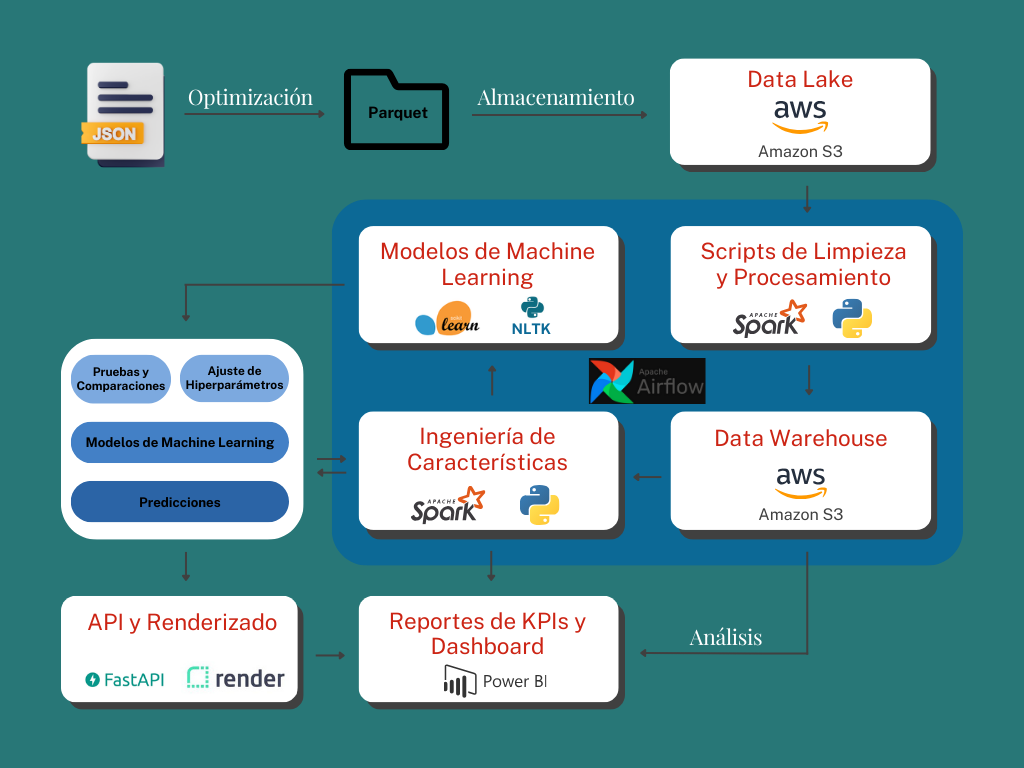
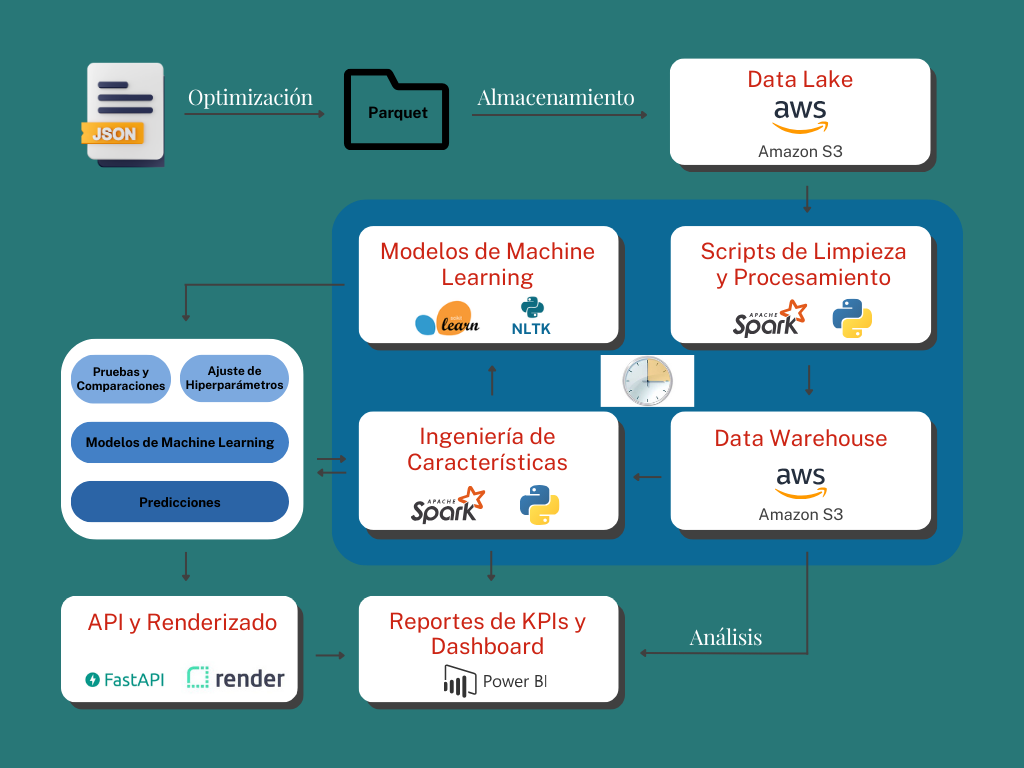
commit

Changed region(s): [[0.5625, 0.4375, 0.6875, 0.5312]]

diff --git a/README.md b/README.md
@@ -80,21 +80,25 @@ Datos de Web Scraping (Wikipedia)
 <h2>Stack tecnológico</h2>
 
 [![stack-tecnologico.jpg](https://i.postimg.cc/ryRG7jyq/stack-tecnologico.jpg)](https://postimg.cc/5j1FCwFr)
+<br><br>
 Git: Sistema de control de versiones distribuido, para el seguimiento de cambios en el código fuente<br>
 Github: Alojamiento de nuestro repositorio<br>
 Visual Studio Code: Software para trabajar de forma local en el proyecto<br>
-Google Drive: Servicio de Google para alma de forma provisoria nuestros archivos<br>
+Google Drive: Servicio de Google para almacenar de forma diversos tipos de archivos<br>
 AWS: Plataforma de computación en la nube que ofrece una amplia gama de servicios de infraestructura y aplicaciones en la nube<br>
-Airflow: Plataforma para automatización de flujos de trabajo<br>
+Amazon s3: Servicio de almacenamiento escalable y seguro de objetos en la nube de Amazon Web Services (AWS)<br>
+Boto3: Biblioteca de Python que permite interactuar con servicios de AWS (Amazon Web Services) de manera programática<br>
+Programador de Tareas: Aplicación para automatización flujos de trabajo de Windows<br>
 Python: Lenguaje de programación usado para ciencia de datos<br>
 Pandas: Librería escrita para el lenguaje Python para la manipulación y el análisis de datos<br>
 Spark: Marco de procesamiento de datos en clúster de grandes volumenes de datos<br>
 PySpark: Interfaz de programación en Python para Apache Spark<br>
 Koalas: Librería que combina la simplicidad de Pandas con el poder de Spark<br>
+Beautiful Soup: Biblioteca de Python para analizar y extraer información de documentos HTML y XML de manera sencilla<br>
 Matplotlib: Librería en Python para crear visualizaciones de nuestros datos<br>
 Seaborn: Librería de visualización de datos de Python basada en matplotlib<br>
-Scikit-learn: Librería de aprendizaje automático de código abierto para el lenguaje de programación Python<br>
-TensorFlow: Biblioteca de aprendizaje automático y redes neuronales<br>
+PySpark.ML: Librería de aprendizaje automático de alto rendimiento para PySpark<br>
+Alternating Least Squarze: Método de factorización matricial para recomendaciones de filtrado colaborativo<br>
 NLTK: Librería para el procesamiento del lenguaje natural especializada en textos <br>
 
 <h2>Aclaración:</h2>

diff --git a/DOCS/Flujo_de_Datos.md b/DOCS/Flujo_de_Datos.md
@@ -1,6 +1,6 @@
 <h1 style="color:red"><center>Flujo de Datos</center></h1>
 
-[![Flujo-De-Trabajo.png](https://i.postimg.cc/dtGFDrW4/Flujo-De-Trabajo.png)](https://postimg.cc/ppV46hMF)
+[![programador-de-tareas-ico.png](https://i.postimg.cc/JnsbhGj6/programador-de-tareas-ico.png)](https://postimg.cc/7GyCsPs0)
 
 
 
